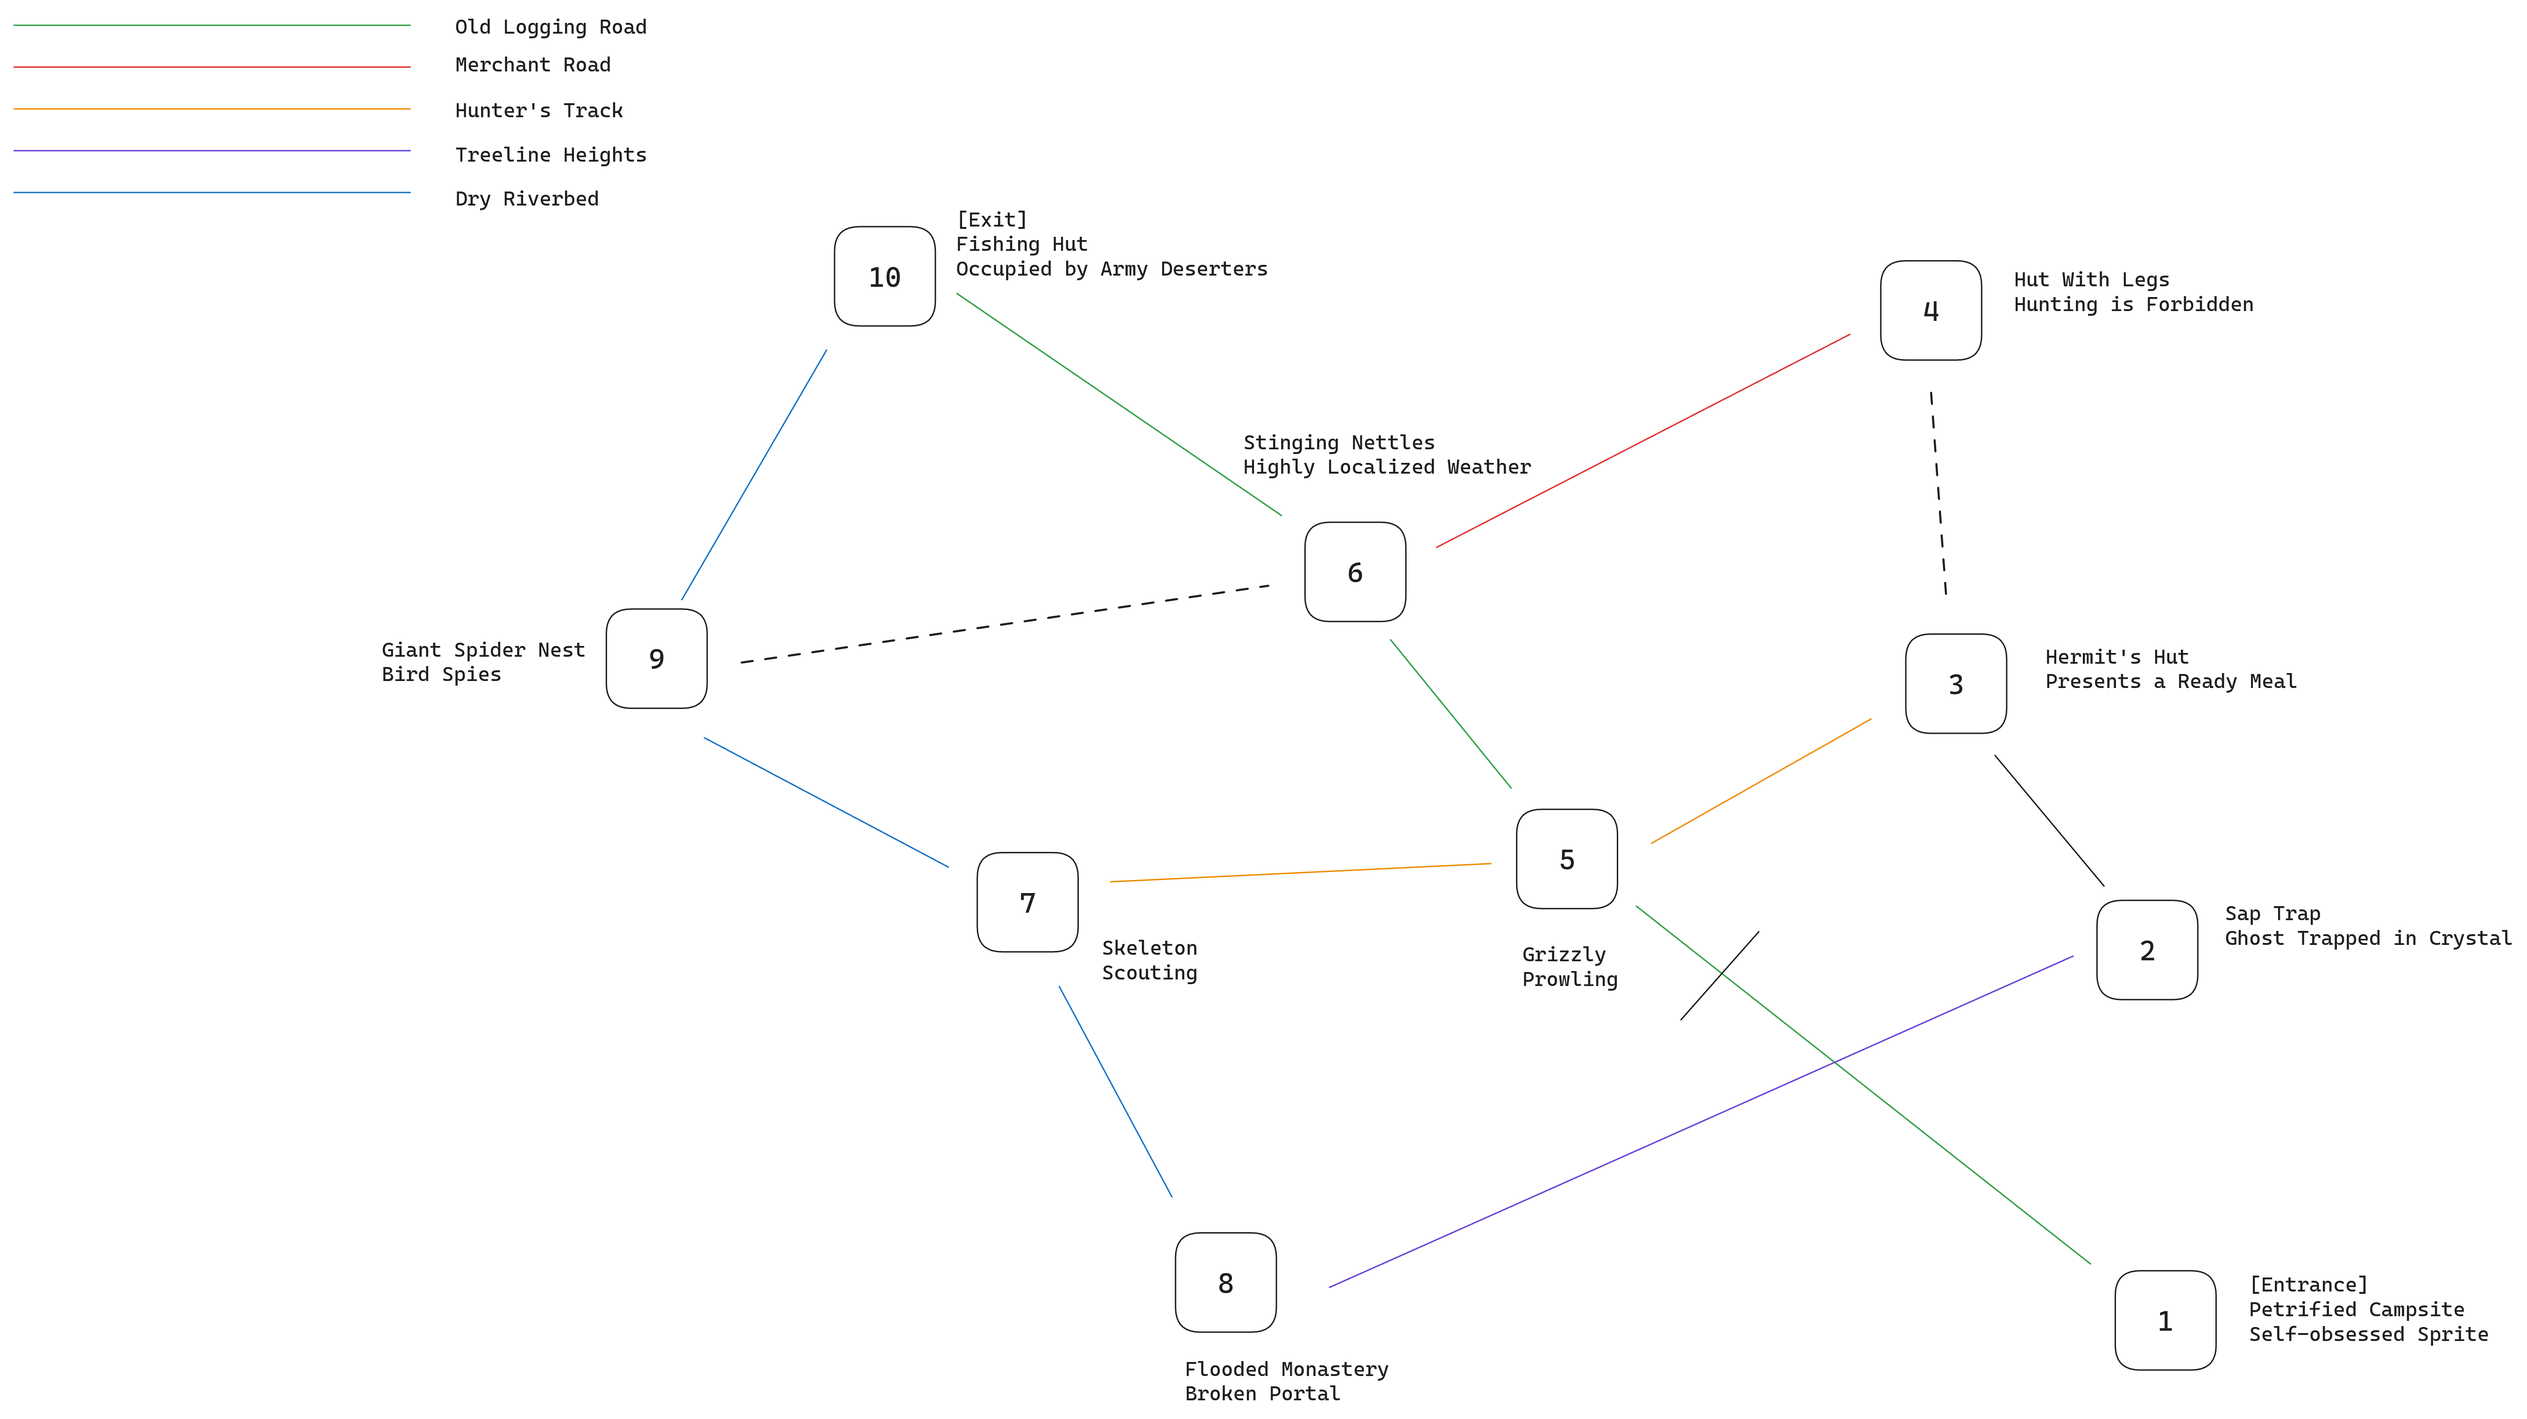
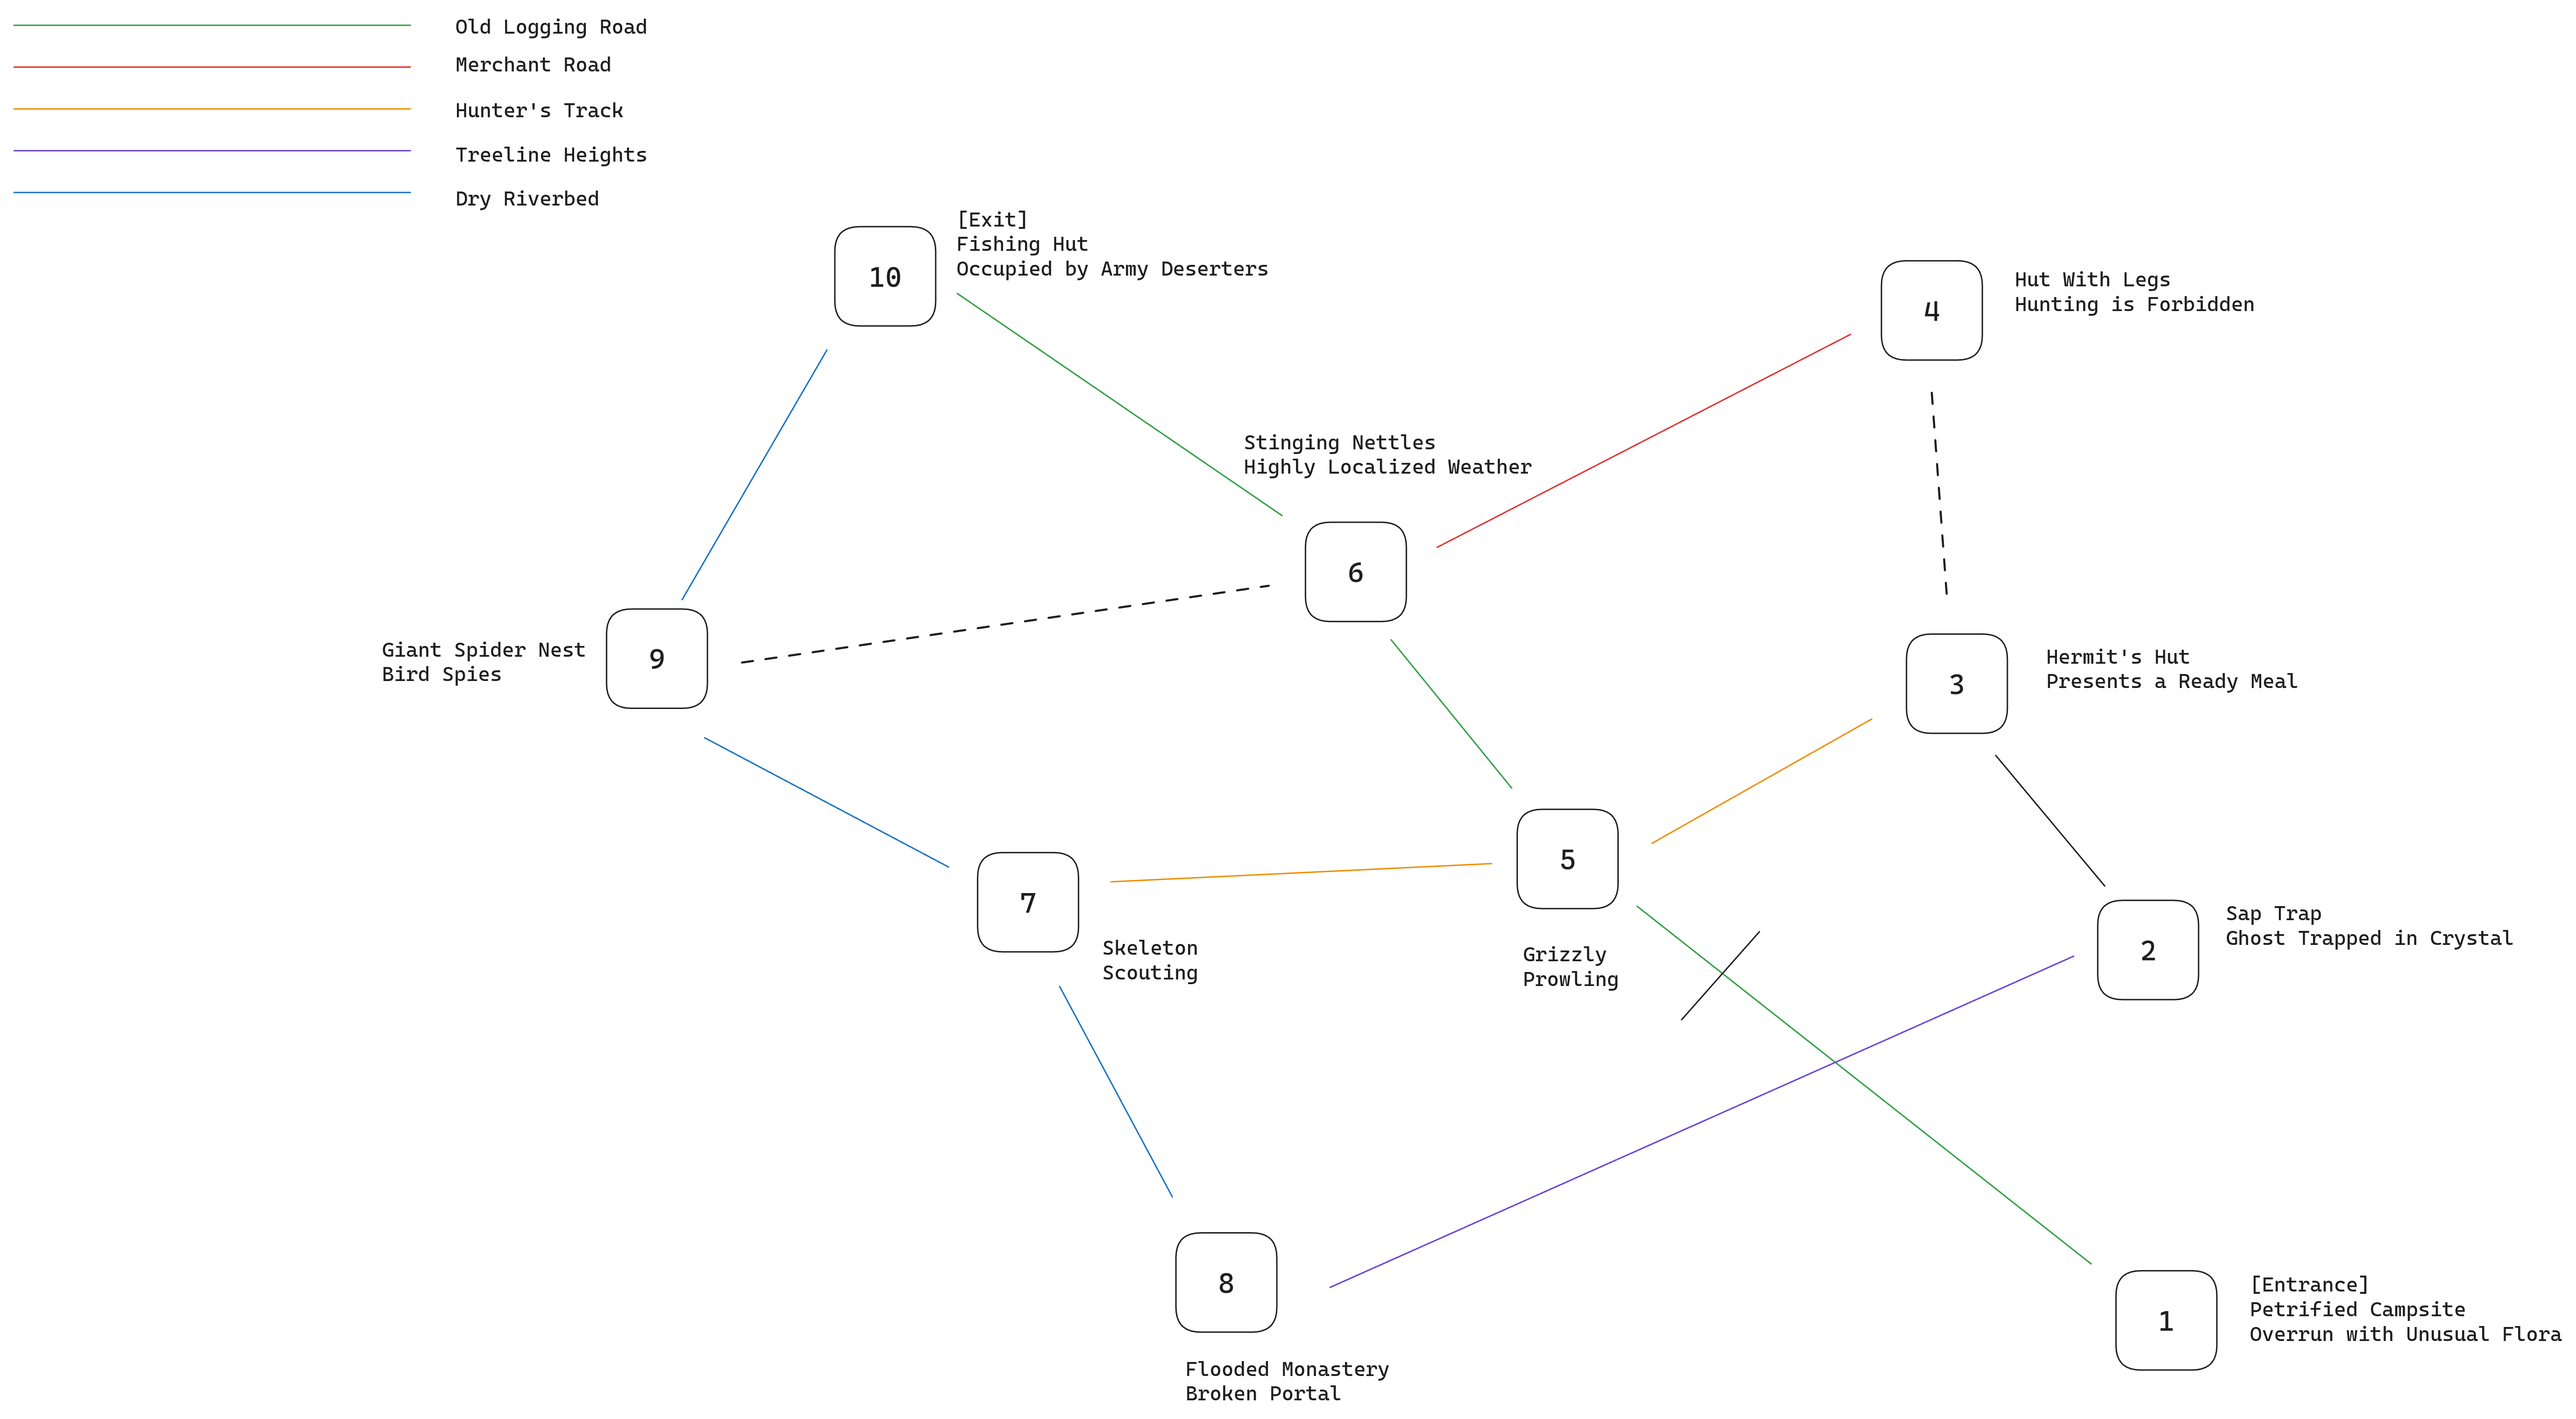
finished first room

diff --git a/wip/2e/forest-seeds.md b/wip/2e/forest-seeds.md
@@ -253,20 +253,20 @@ Roll 2d20 and combine the results.
 | **4**   | Collapsed Megalith  | A hag, foraging for ingredients        |
 | **5**   | Crumbled Watchtower | A hidden weapons cache                 |
 | **6**   | Decomposed Canoes   | A mirror of itself, just below         |
-| **7**   | Entangled Pavilion  | A self-obsessed Sprite                 |
+| **7**   | Entangled Pavilion  | A self-obsessed sprite                 |
 | **8**   | Exposed Workshop    | A silent, ghostly concert              |
 | **9**   | Flooded Monastery   | A very tiny ruined village             |
 | **10**  | Moldering Farmhouse | Bound by an unbreakable curse          |
-| **11**  | Neglected Shrine    | Holy ground, undead cannot enter       |
-| **12**  | Overrun Estate      | Hooded Men, completing a ritual        |
-| **13**  | Petrified Campsite  | Inaudible whispers from all directions |
-| **14**  | Rotted Mill         | Marked by battles of yore              |
-| **15**  | Ruined Cloister     | Overrun with unusual flora             |
-| **16**  | Rusted Market       | Remnants of a failed ritual            |
-| **17**  | Shattered Bridge    | Seventy-five realistic toy soldiers    |
-| **18**  | Splintered Obelisk  | Three corpses, fresh                   |
-| **19**  | Sunken Gazebo       | Veil between worlds is very thin       |
-| **20**  | Toppled Statue      | Visions of its past play out           |
+| **11**  | Neglected Shrine    | Dozens of realistic toy soldiers       |
+| **12**  | Overrun Estate      | Holy ground, undead cannot enter       |
+| **13**  | Petrified Campsite  | Hooded Men completing a ritual         |
+| **14**  | Rotted Mill         | Inaudible whispers from all directions |
+| **15**  | Ruined Cloister     | Marked by battles of yore              |
+| **16**  | Rusted Market       | Overrun with unusual flora             |
+| **17**  | Shattered Bridge    | Remnants of a failed ritual            |
+| **18**  | Splintered Obelisk  | The veil between worlds is very thin   |
+| **19**  | Sunken Gazebo       | Three corpses, fresh                   |
+| **20**  | Toppled Statue      | Visions of the past                    |
 
 #### Shelter
 
@@ -360,21 +360,28 @@ The primary faction is bent on expanding the forest's reach to some adjacent lan
 
 ### POIs
 
-### 1 - Petrified Campsite
+### 1 - Diseased Campsite
 
-**Ruin**: _Petrified Campsite_, _self-obsessed sprite_ | **Entrance**
+**Ruin**: _Petrified Campsite_, _Overrun with unusual flora_ | **Entrance**
 
-At the forest edge is a dead **campfire** with piles of dark grey **bedding** on laid out close by. A **trail** to the North leads into the forest. 
+At the forest edge is a dead **campfire** with piles of dark grey **bedding** laid out close by. Plants, flowers, and other **flora** grow thickly over the campsite. A **trail** to the **North** leads into the forest. 
 
 - **Campfire**: No smoke or soot remains. 
-  - 
-- **Bedding**: 
-  - 
+  - The remaining wood is stained a deep grey and very cold to the touch. One of the logs is clearly diseased, and is as hard as iron.
+- **Bedding**: Stained a dark grey. Splinters of grey wood are stuck in the cloth.
+  - Icy cold to the touch. The space beneath the cloth is partly blue and red, but grey circles grow out of the wood flecks. 
+- **Flora**: Rare and unique species not common to these parts.
+  - Skilled pruning and a few minutes of careful work produces a **Healing Salve** (restore 1d4 STR, 1 use).
 - **Trail**: Long grooves in the rough shape of a tree trunk are cut into the ground. 
-- Fine spiderwebs block the forest entry, as if no one had walked through in a long while.
+  - Fine spiderwebs block the forest entry, as if no one had walked through in a long while.
 
 
-2 - Hazard: Sap Trap, Ghost Trapped in Crystal
+### 2 - 
+
+**Hazard**: _Sap Trap_, _Ghost Trapped in Crystal_
+
+
+
 3 - Shelter: Hermit's Hut, Presents a Ready Meal
 4 - Shelter: Hut with legs, hunting is forbidden
 5 - Monster: Grizzly, prowling
